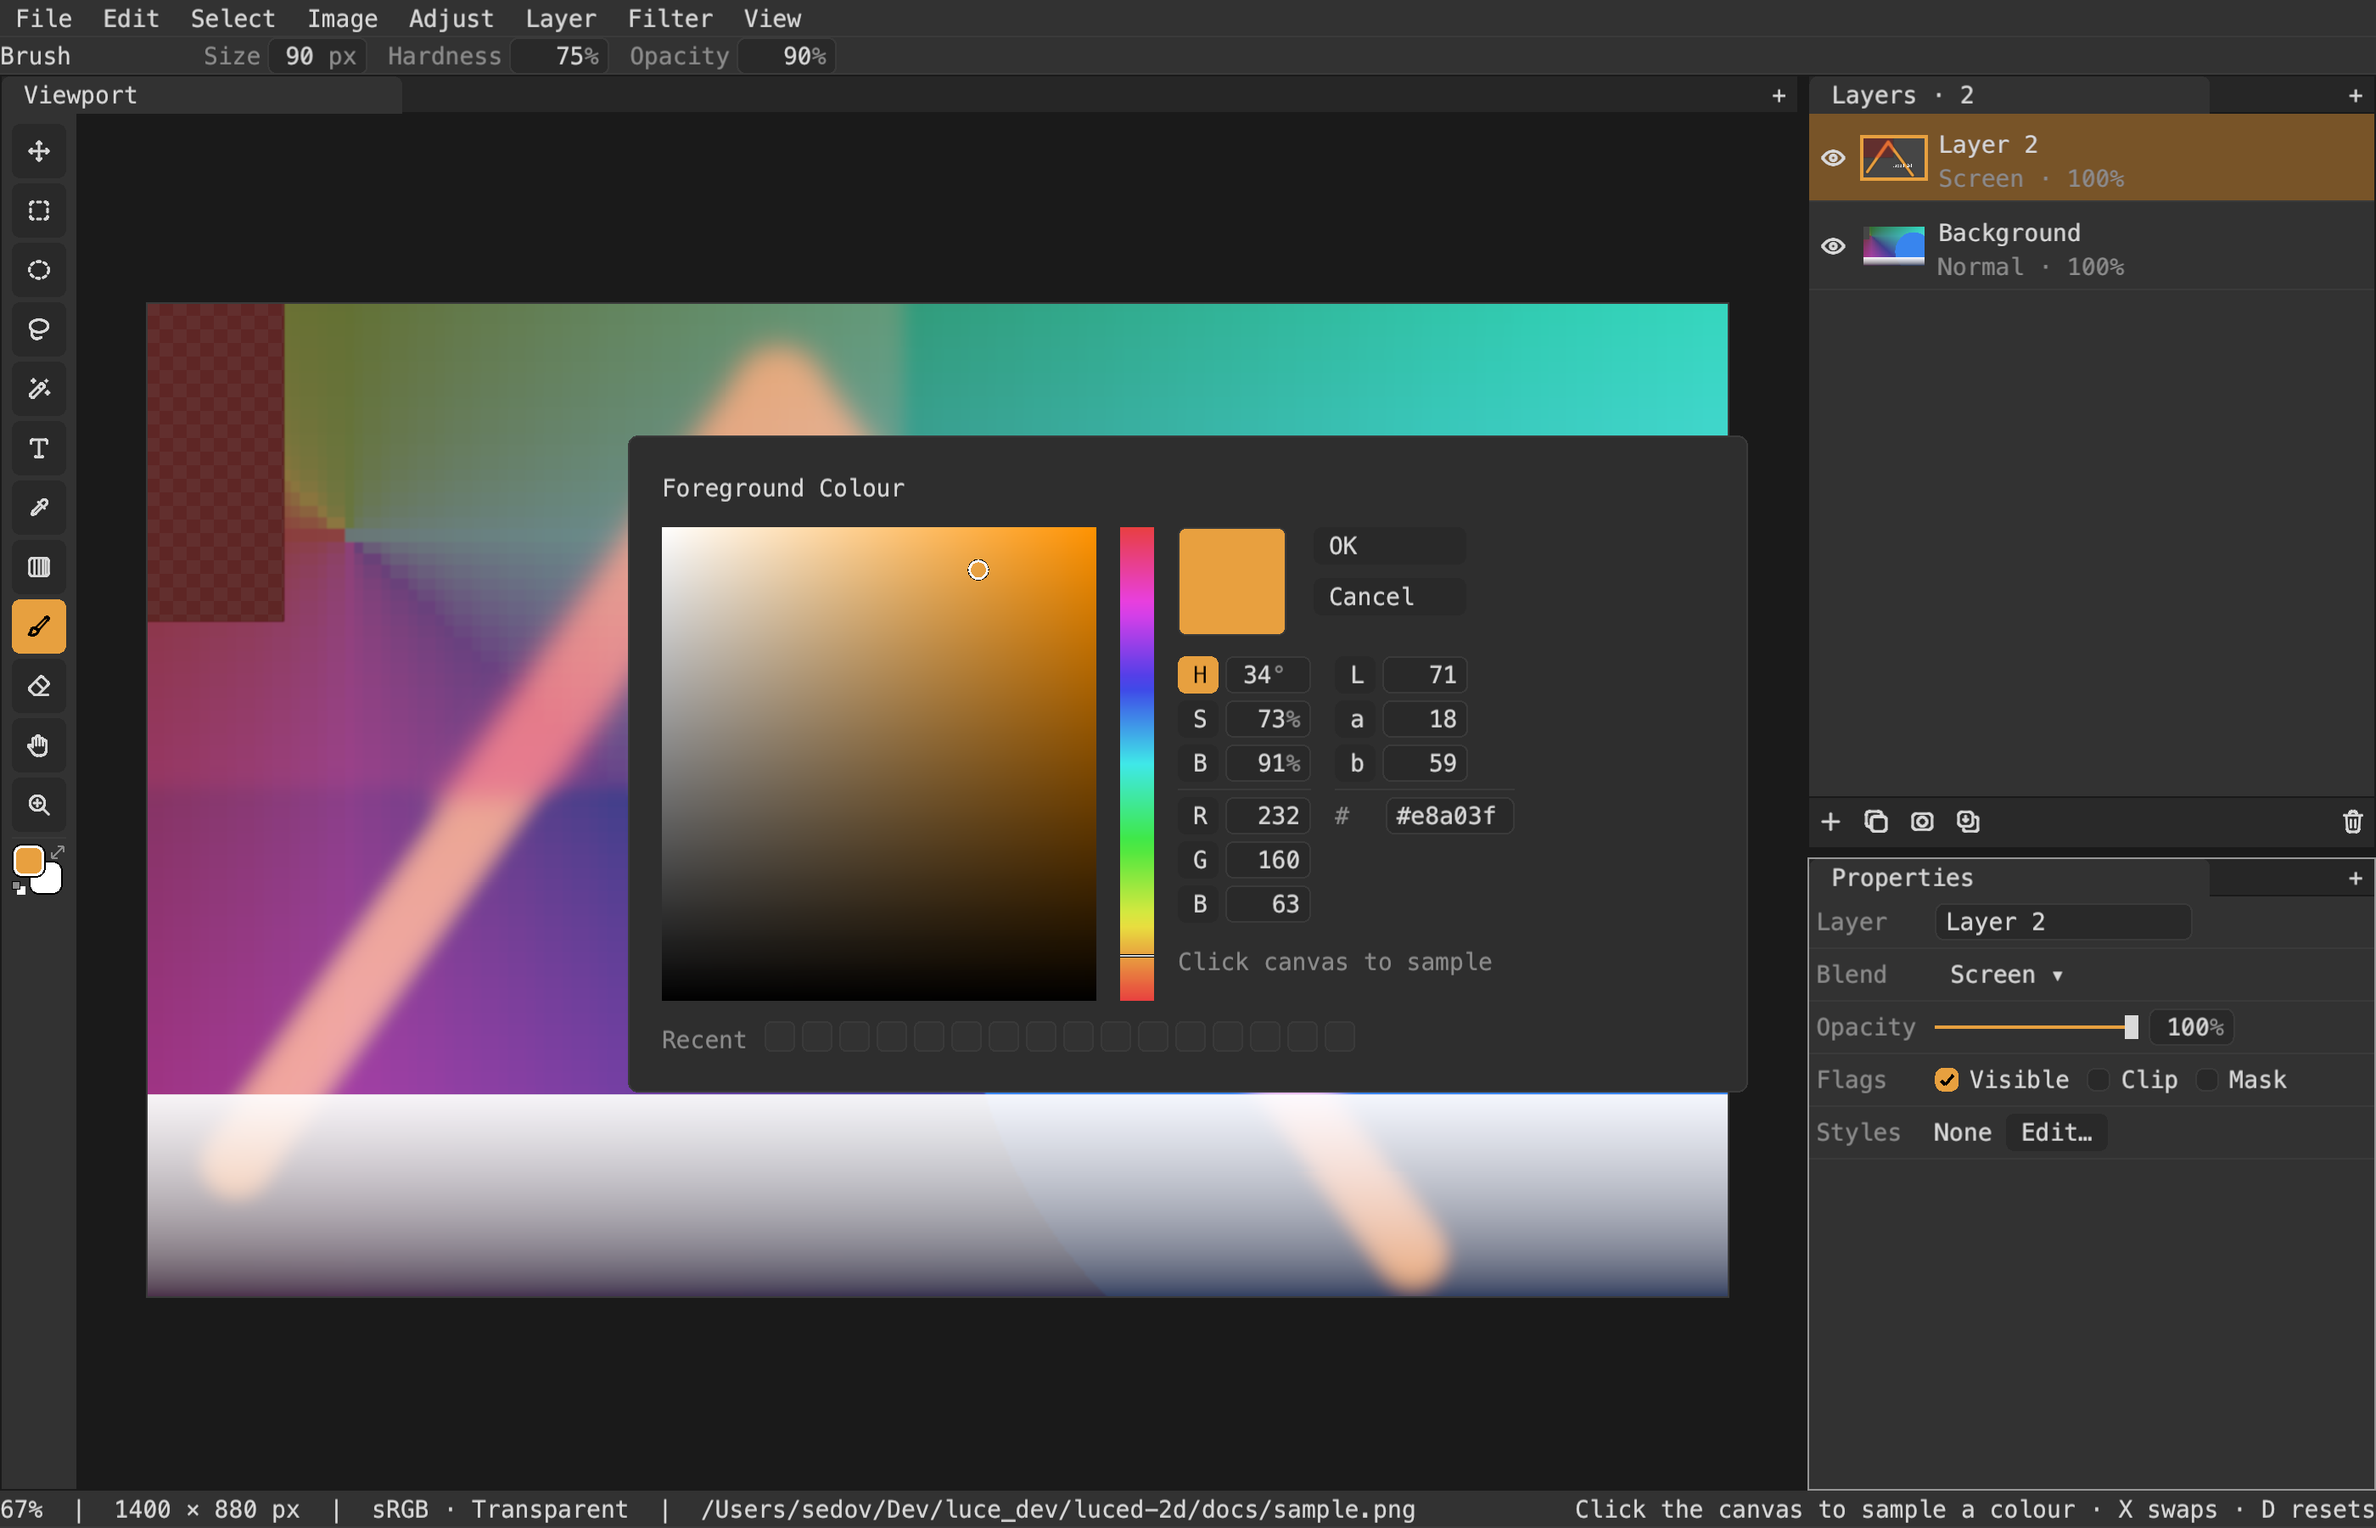
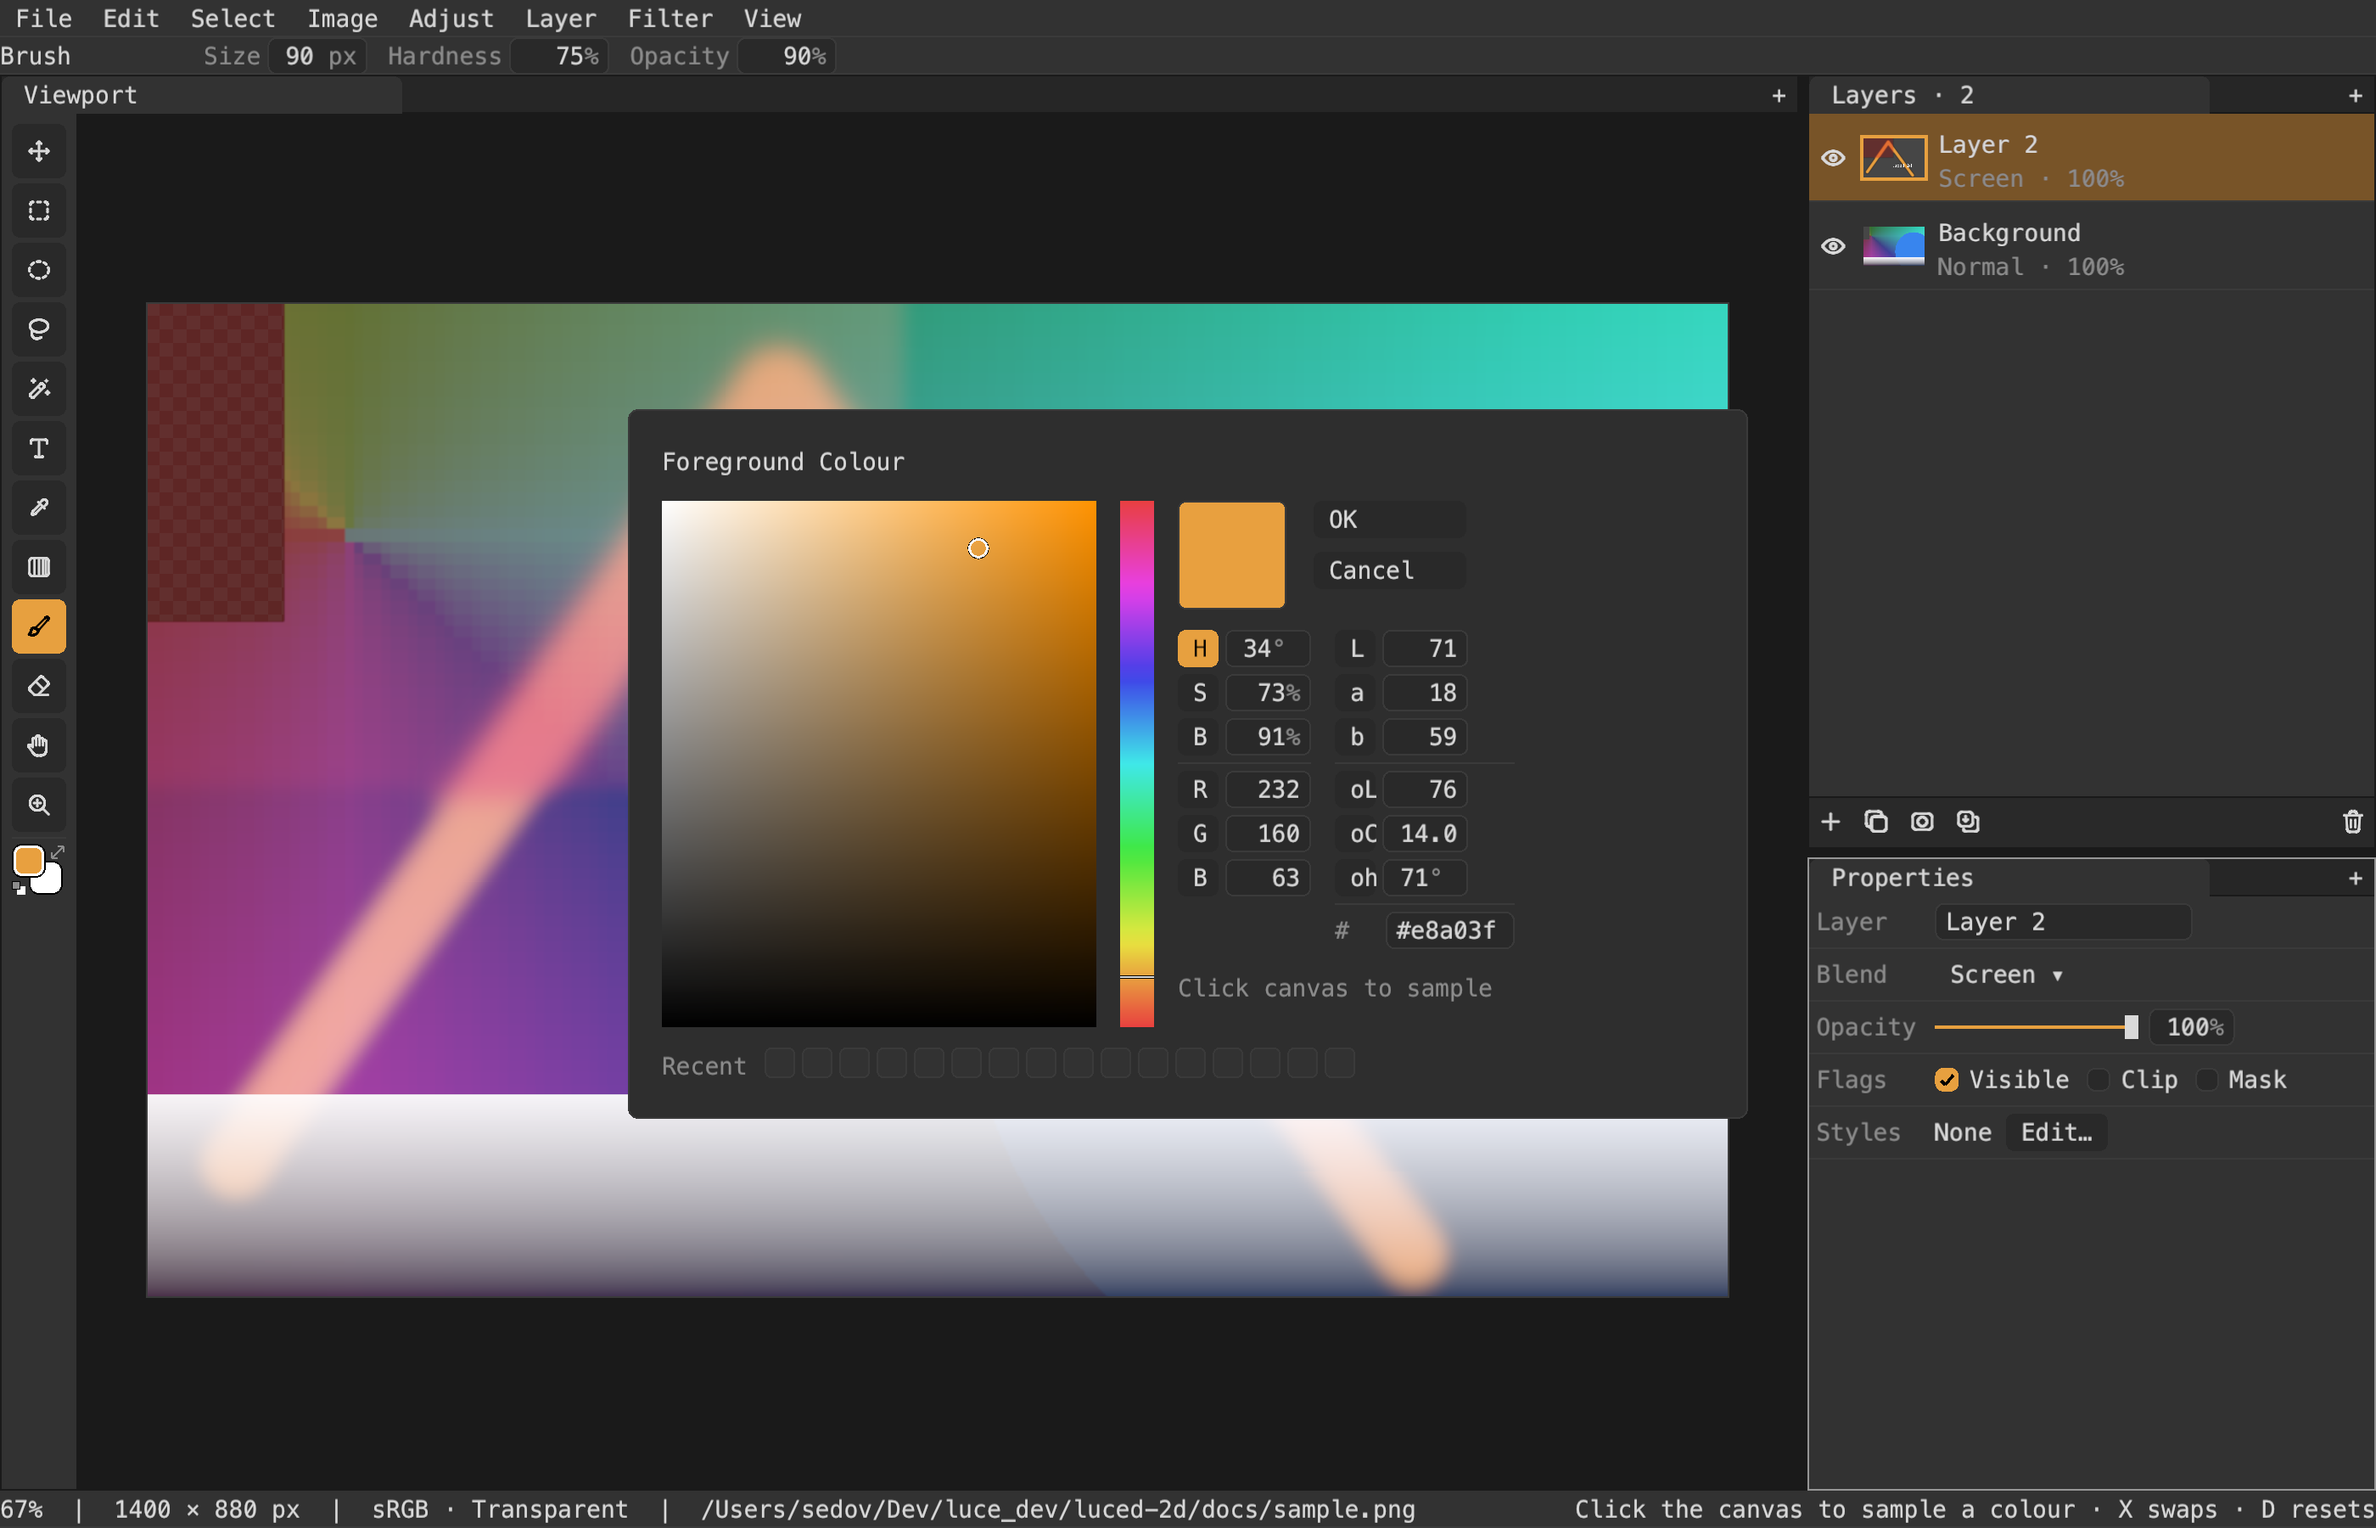
OkLCh planes in the colour editor
Three more radios beside the fields: Oklab lightness, chroma and hue, whose
planes luce-color's oklab module gamut-maps by chroma so they stay
displayable. luced-2d 0.1.12 pins luce-color 0.2.1.

Claude-Session: https://claude.ai/code/session_01KSvf935cywg8wGYHPcyZf9

Changed region(s): [[0.2486, 0.2489, 0.7457, 0.5911], [0.2486, 0.56, 0.7457, 0.7467], [0.5593, 0.3422, 0.5904, 0.4044]]

diff --git a/README.md b/README.md
@@ -84,7 +84,7 @@ python3 tools/preview.py   # macOS: captures a real Metal frame into docs/previe
 - `src/colors.luc`: the palette below the tool rail (foreground over
   background, swap X, reset D) and the colour editor after Photoshop's: a
   field and a strip whose channel a radio picks (H, S, B, R, G, B, L, a, b —
-  the field plots the other two), new-over-current preview, HSB / RGB / Lab /
+  the field plots the other two; plus OkLCh L, C, h, gamut-mapped by chroma), new-over-current preview, HSB / RGB / Lab / OkLCh /
   hex fields, a history of committed colours (saved in settings), live on the
   palette, canvas click samples while it is open. The colour maths is
   luce-color's (`hsl`, `lab`, `space`, `transfer`).
